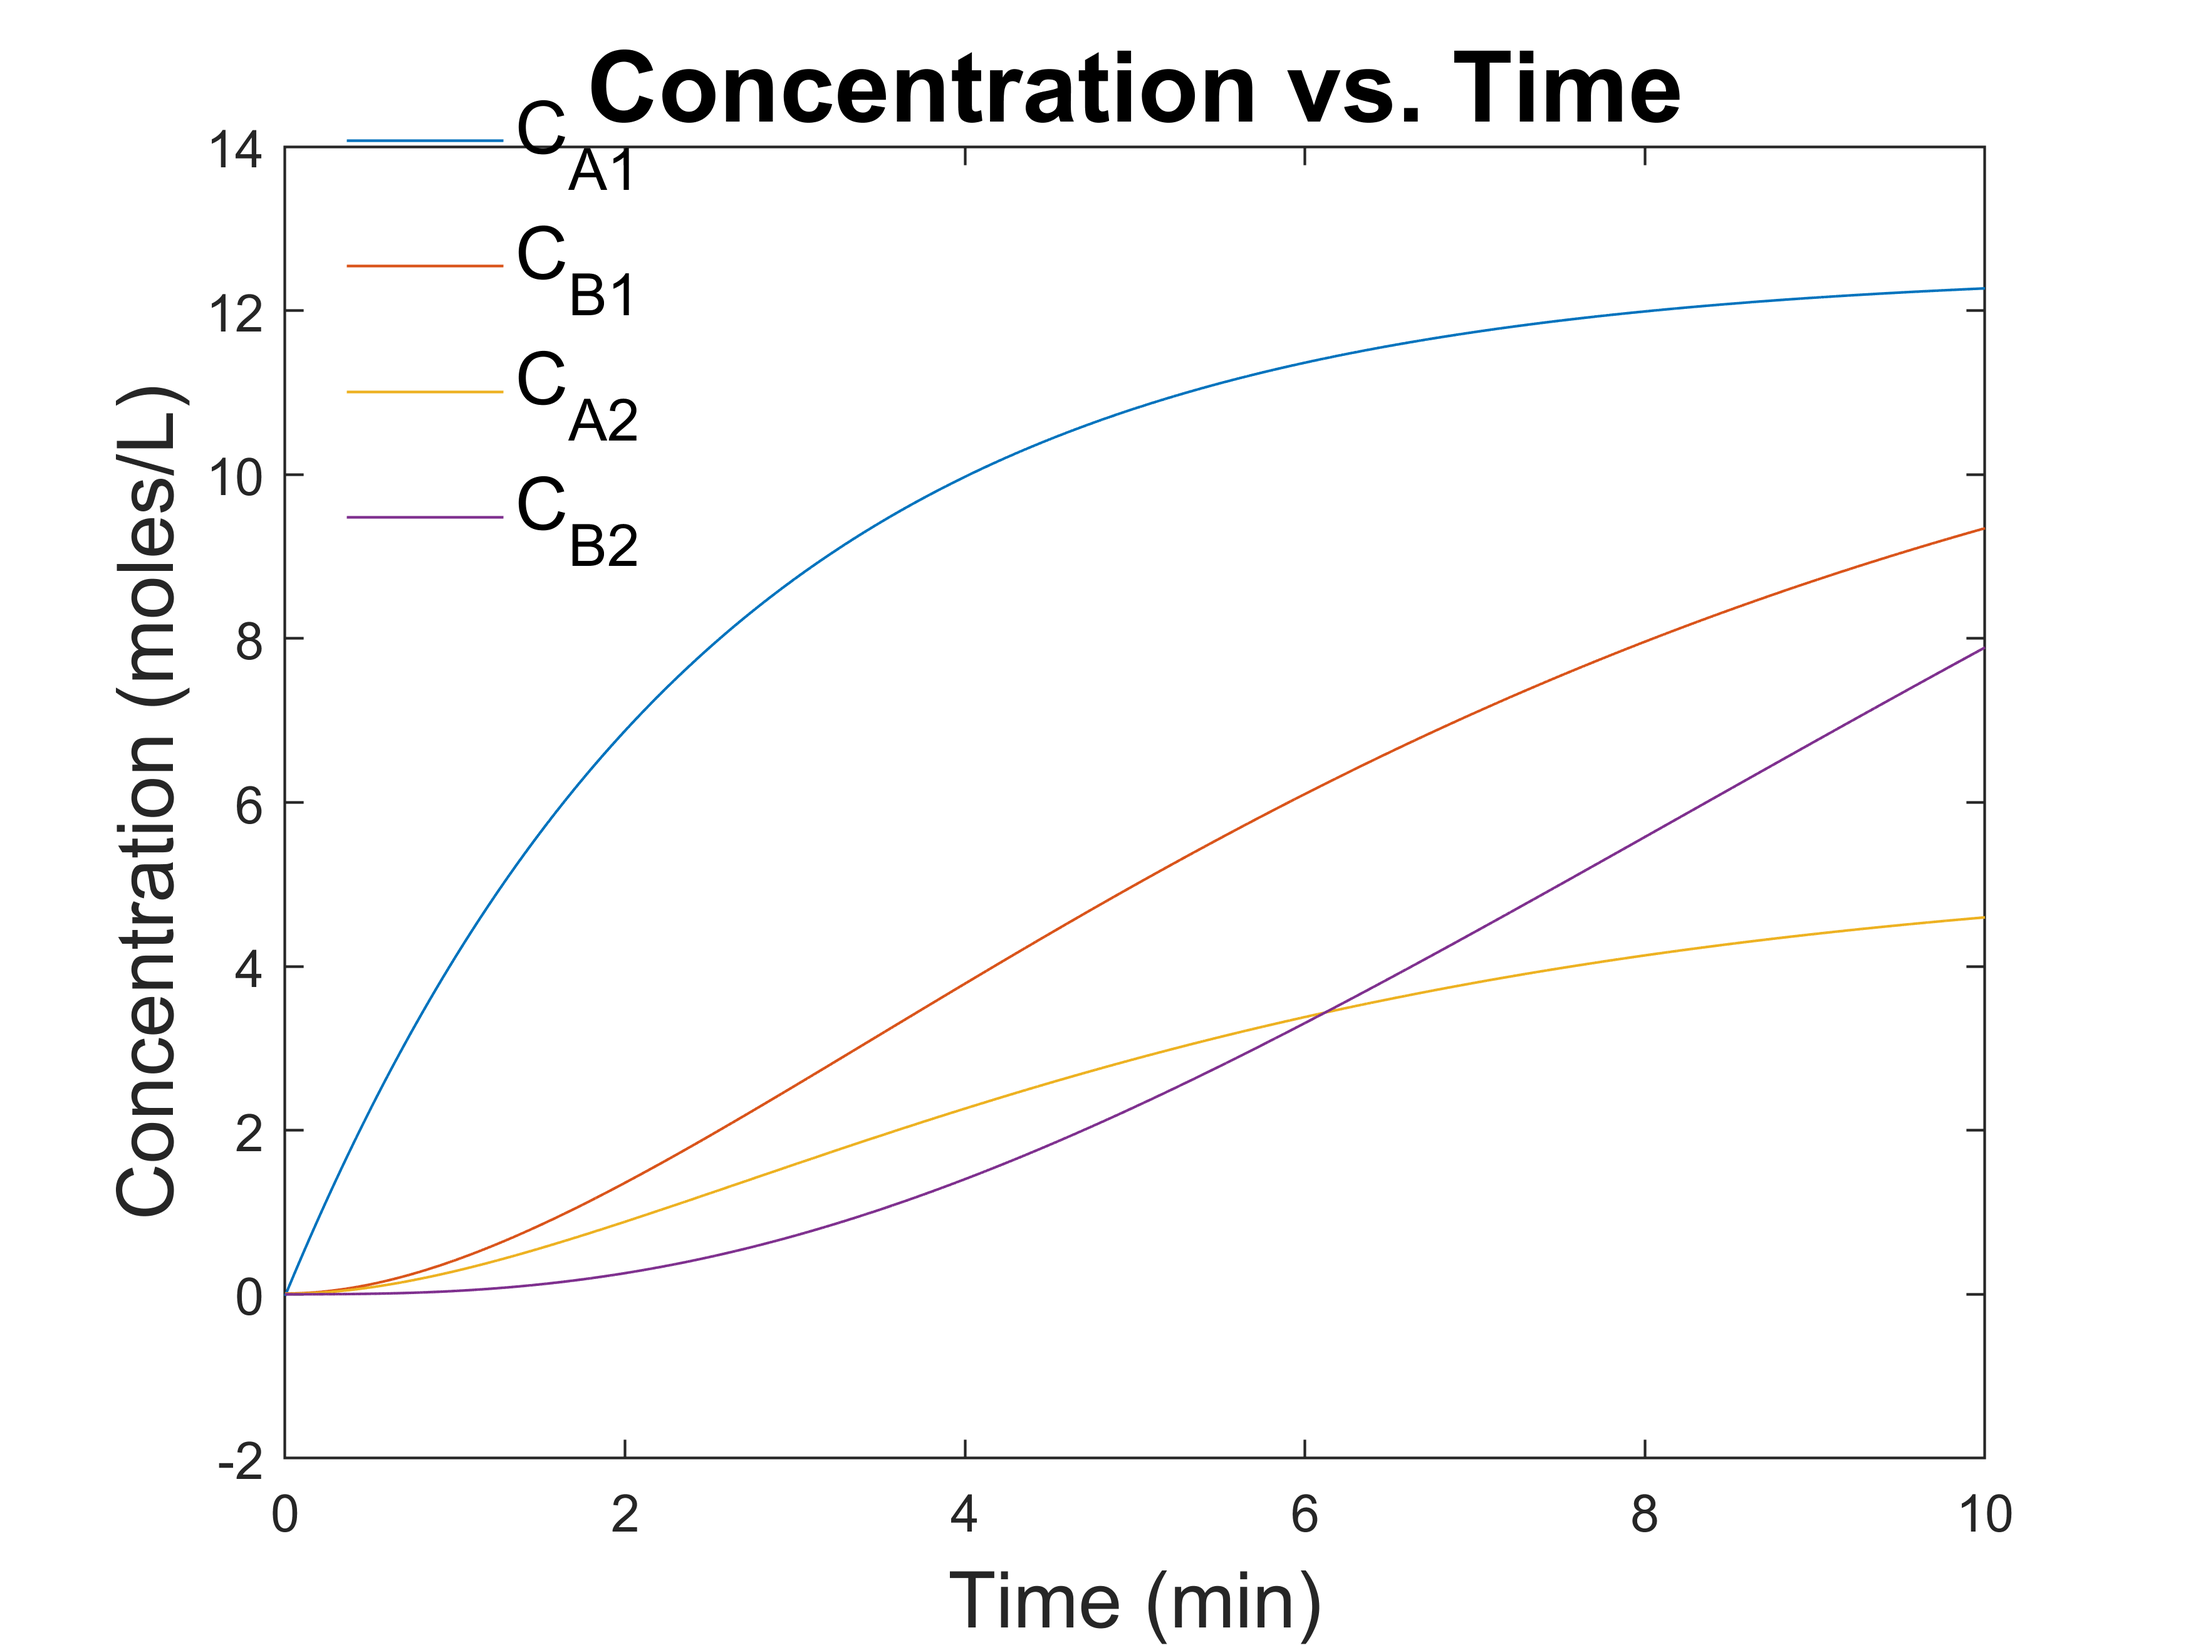
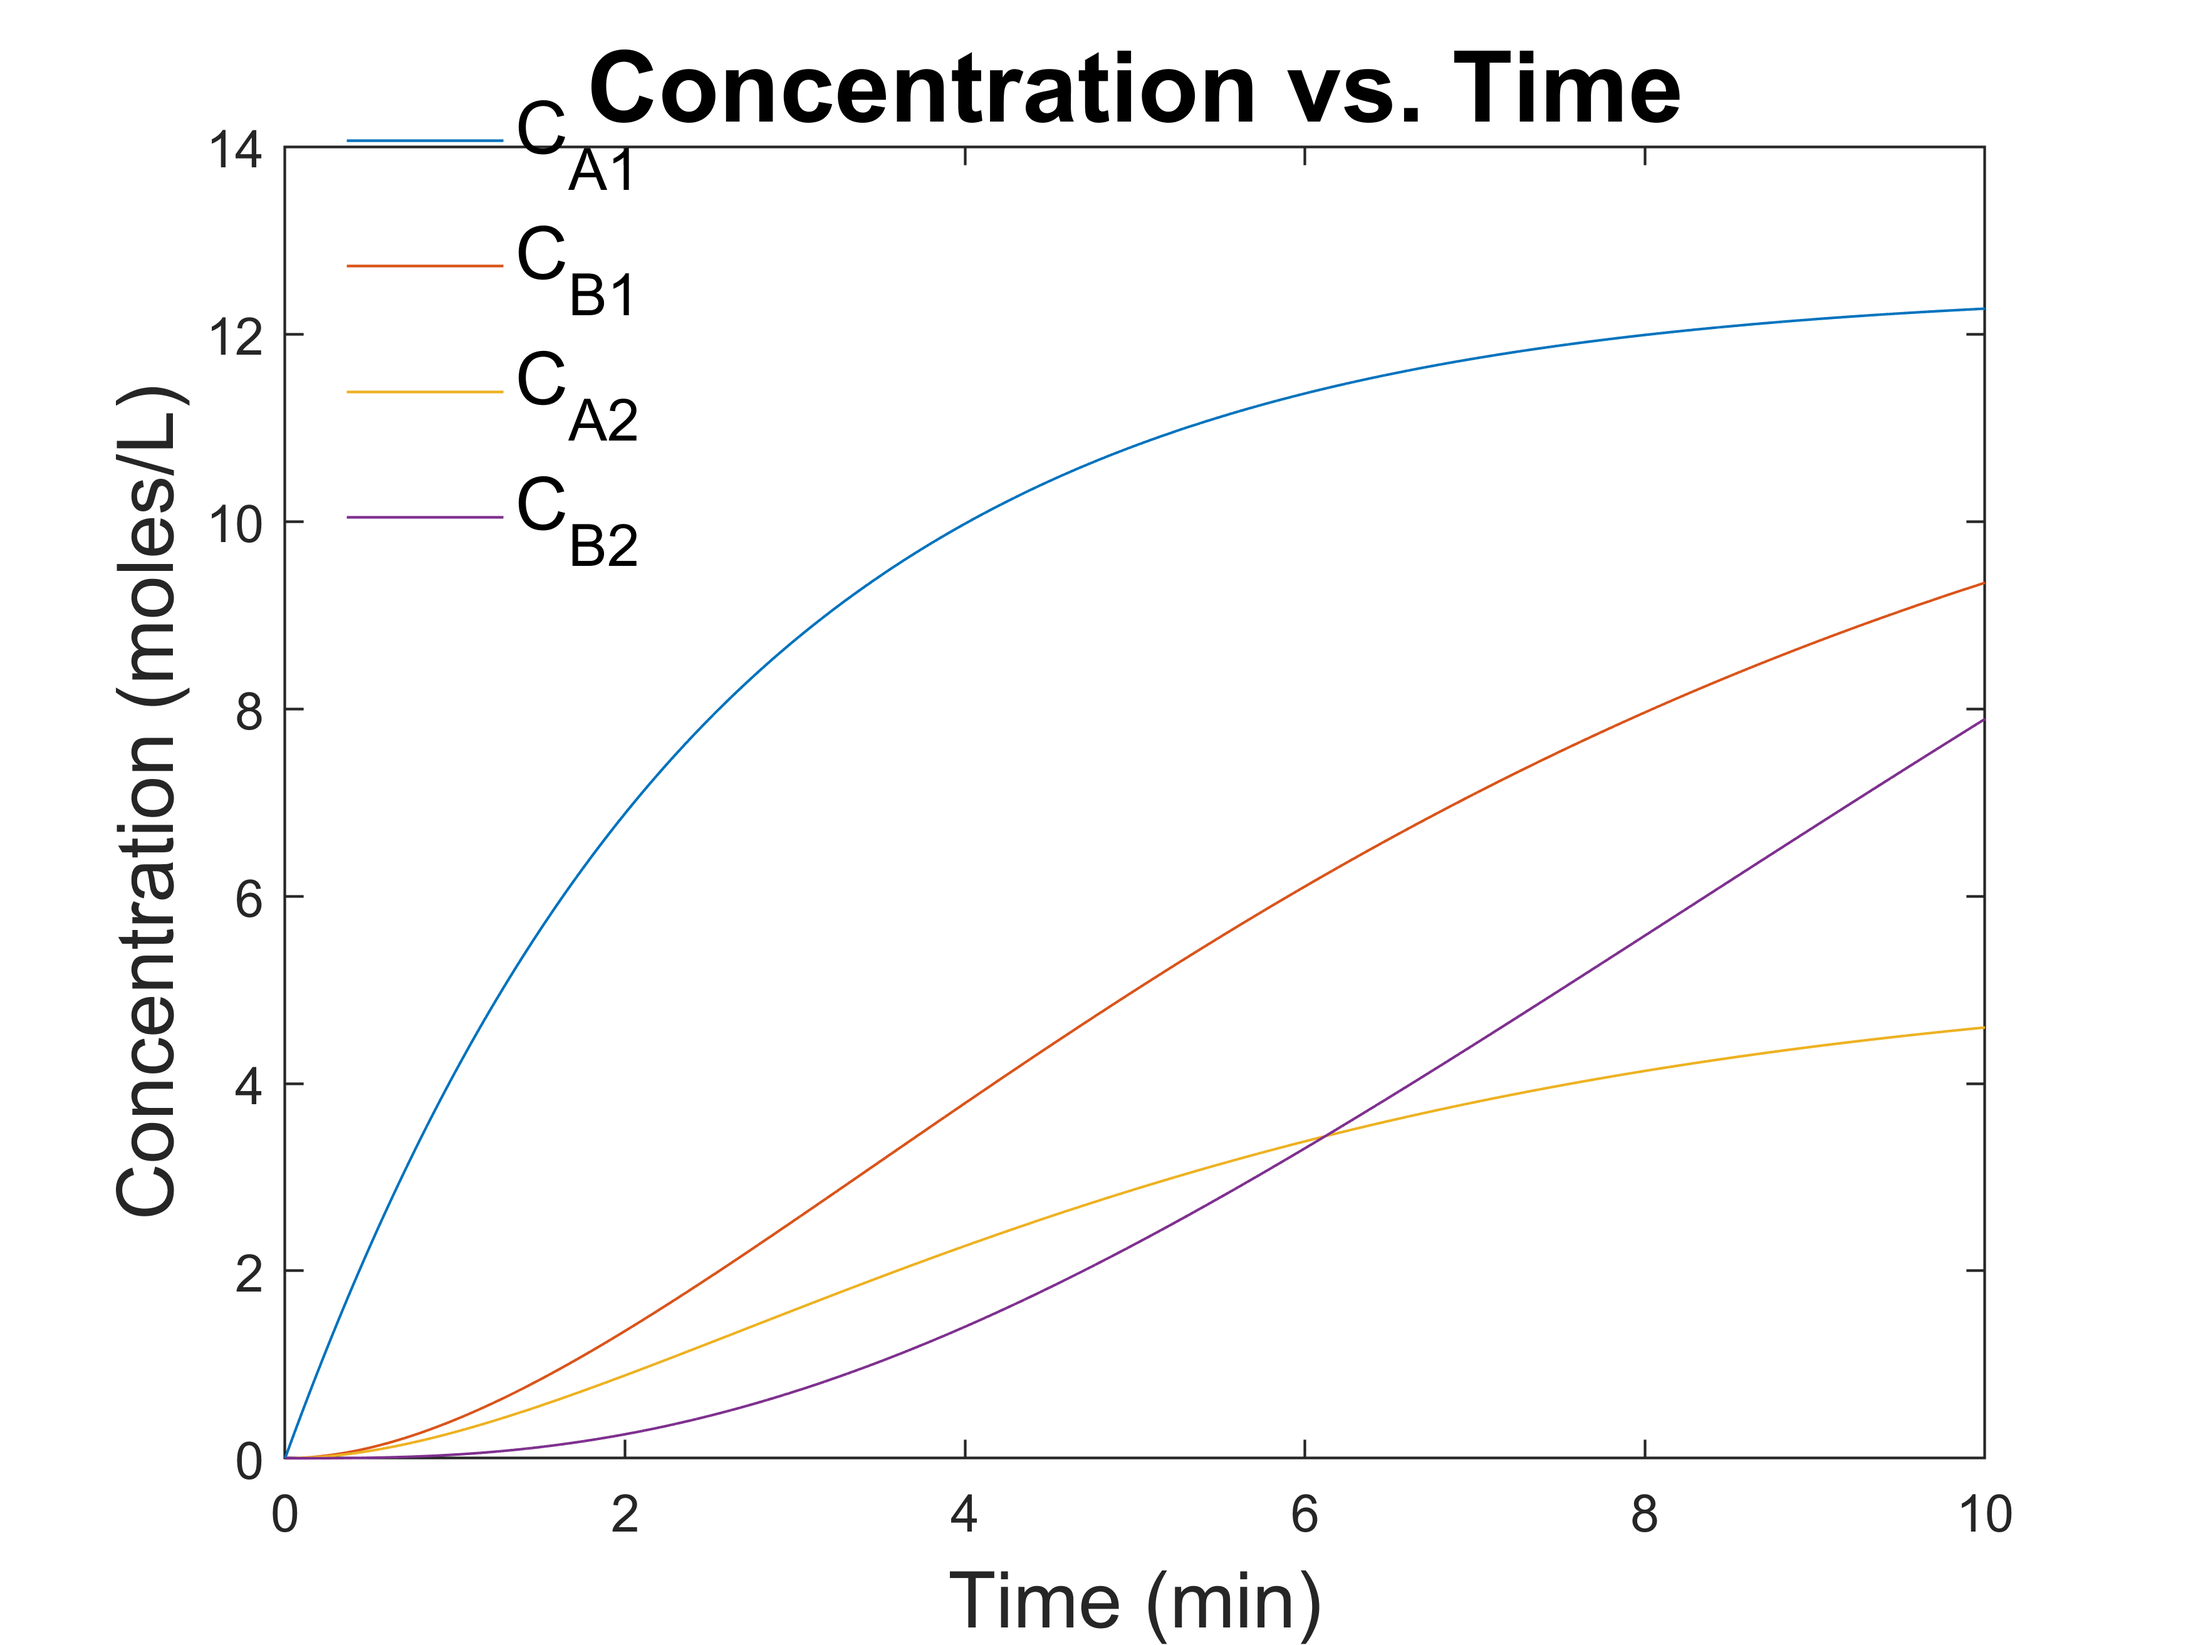
almost done

diff --git a/Assignments/In-Class/main.m b/Assignments/In-Class/main.m
@@ -8,23 +8,26 @@ clc
 k = 0.2; % min^-1
 t1 = 5; % min
 t2 = 7; % min
-
 Ca0 = 25; % mol/L
 
 f = @(C)dc(C, Ca0, k, t1, t2);
 
-%[xs, sol] = butcher([0, 0, 0, 0, 0]', f, 0, 10, 51);
+% if integrating backwards, make h negative
 
-% make x separate
-% for now, if integrating backwards, make h negative
+%ct = butcher(zeros(5, 1), f, 0, 10, 10);
+
+% initialize time vector -- have more control over the bounds of
+% integration
+
+t = linspace(0, 10, 50);
 
 ct = impliciteuler(f, zeros(5, 1), 10001, 1e-3, 1e-12);
-ct = impliciteuler(f, ct(:, end), 10001, -1e-3, 1e-12);
 ct = ct';
+
+t=ct(:,end);
 
 %% Plotting
 fh1=figure(1);
-t=ct(:,end);
 plot(t,ct(:,1),t,ct(:,2),t,ct(:,3),t,ct(:,4));
 ylabel('Concentration (moles/L)','fontsize',15)
 xlabel('Time (min)','fontsize',15)
@@ -35,11 +38,33 @@ set(hlegend,'fontsize',14,'box','off','orientation','vertical', 'position',[0.2 
 print(figure(1),'-dpng','-r600','picture1')
 
 %% Locate concentration
+% Locate the concentration of any species at a given time and report all
+% other species at that time
 
+given_t = 10;
 
+y = incpredict(t, ct(:, 1:end-1), given_t);
+
+fprintf('At time %.2f min, the concentrations of each species are C_A1 = %.5f M, C_B1 = %.5f M, C_A2 = %.5f M, C_B2 = %.5f M.\n', given_t, y);
 
 %% Locate max/min
+% Locate the time and concentration of any species at the point that it has
+% achieved its maximal or minimal value, if one exists
+% It must also report the values of all other species at that time
 
+species = 1;
 
+mm = quicksortd(ct, 1, length(ct), species);
+
+mm(1, :) % Minimum
+mm(end, :) % Maximum
 
 %% Steady State
+% Compute the concentration of each species at steady-state
+
+ss = @(C)dc2(C, Ca0, k, t1, t2);
+cg = ct(end, 1:end-1);
+
+ssc = newtonrm(ss, cg, 1e-12);
+
+fprintf('The steady state concentrations are C_A1 = %.5f M, C_B1 = %.5f M, C_A2 = %.5f M, C_B2 = %.5f M.\n', ssc);

diff --git a/Assignments/In-Class/butcher.m b/Assignments/In-Class/butcher.m
@@ -1,4 +1,4 @@
-function [x, y] = butcher(yi, func, a, b, n)
+function [y] = butcher(yi, func, a, b, n)
 % Algorithm that implements a 5th order RK method
 % p = array of initial x and y guess
 % func = function handle
@@ -10,28 +10,20 @@ function [x, y] = butcher(yi, func, a, b, n)
 
 [m, ~] = size(yi);
 
-y = zeros(m, n); 
+y = zeros(m, n);
 
 dx = (b - a) / (n - 1);
 
-x(1) = yi(end);
 y(:, 1) = yi;
 
-for i = 1:n-1
-    
-    k1 = dx*func(y(:, 1));
-    k2 = dx*func(y(:, i) + k1/4);
-    k3 = dx*func(y(:, i) + k1/8 + k2/8);
-    k4 = dx*func(y(:, i) - k2/2 + k3);
-    k5 = dx*func(y(:, i) + 3*k1/16 + 9*k4/16);
-    k6 = dx*func(y(:, i) + (-3*k1 + 2*k2 + 12*k3 - 12*k4 + 8*k5)/7);
-    ynew = y(:, i) + (7*k1 + 32*k3 + 12*k4 + 32*k5 + 7*k6)/90;
-    
-    y(:, i + 1) = ynew; % Store in array
-        
+for i=1:n-1
+    k1=dx*func(y(:,i));
+    k2=dx*func(y(:,i)+k1/4);
+    k3=dx*func(y(:,i)+(k1+k2)/8);
+    k4=dx*func(y(:,i)-k2/2+k3);
+    k5=dx*func(y(:,i)+(3*k1+9*k4)/16);
+    k6=dx*func(y(:,i)+(-3*k1+2*k2+12*k3-12*k4+8*k5)/7);
+    y(:,i+1)=y(:,i)+(7*k1+32*k3+12*k4+32*k5+7*k6)/90;
 end
-
-y = y(1:end - 1, :);
-x = y(end, :);
 
 end

diff --git a/Assignments/In-Class/incpredict.m b/Assignments/In-Class/incpredict.m
@@ -1,0 +1,38 @@
+% Ngan Jennifer Tram Su [260923530]
+
+function yp = incpredict(x, y, p)
+% Searching algorithm 
+% (1) Incremental search for bounds
+% (2) Linear interpolation
+% x = array of dependent values
+% y = array of independent values
+% p = value of interest
+% yp = predicted y-value
+%% Initialization
+i = 0;
+xleft = 0; yleft = 0; % In case value of interest is < than the first value in array
+xright = x(1); yright = y(1, :);
+%% Beginning of while loop - searching for bounds
+while i + 1 < length(x)
+    
+    if (xleft <= p) && (p <= xright) % Bounds found
+        break
+    end
+       
+    i = i + 1;
+    xleft = x(i); yleft = y(i, :);
+    xright = x(i + 1); yright = y(i + 1, :);
+end
+
+%% Two-point linear interpolation for desired y value
+if abs(xleft - p) < 1e-12 
+    yp = y(i, :);
+elseif abs(xright - p) < 1e-12
+    yp = y(i + 1, :);
+elseif (xleft <= p) && (p <= xright) && (i + 1 < length(x)) % Verifying that bounds were found
+    yp = ((yright - yleft) ./ (xright - xleft)) .* (p - xleft) + yleft;
+else
+    yp = NaN;
+end
+
+end

diff --git a/Assignments/In-Class/quicksortd.m b/Assignments/In-Class/quicksortd.m
@@ -1,0 +1,42 @@
+function v=quicksortd(v, left, right, col)
+%% Recursive quicksort with double indexing that sorts a specific column
+% v = matrix to be sorted
+% left = left index
+% right = right index
+% col = column to sort
+
+if right < left
+    return
+end
+
+i = left;
+j = right;
+s = right - left + 1; % can't use length for subarrays
+pivot = left + ceil(s*rand(1)) - 1; % must subtract one to avoid going out of bounds
+
+piv = v(pivot, col);
+
+while i <= j
+    while v(i, col) < piv % on the left, find the first value that's larger than the pivot
+        i = i + 1;
+    end
+    while v(j, col) > piv % on the right, find the first value that's smaller than the pivot
+        j = j-1;
+    end
+    if i <= j
+        % swap
+        vtmp = v(j, :);
+        v(j, :) = v(i, :);
+        v(i, :) = vtmp;
+        i = i+1;
+        j = j-1;
+    end
+end
+
+% recursion on left side
+v = quicksortd(v, left, j, col);
+
+% recursion on right side
+v = quicksortd(v, i, right, col);
+        
+end

diff --git a/Assignments/In-Class/newtonrm.m b/Assignments/In-Class/newtonrm.m
@@ -1,0 +1,44 @@
+function [xn, i] = newtonrm(fun, xg, tol)
+% Phillip Servio (c) 2013
+% Newton-Raphson method for calculating solution to nonlinear set of
+% equations
+% fun = vector of functions
+% xg = array of initial guesses for each variable of interest
+% h = small step for Jacobian
+% tol = tolerance
+% xn = array of new guess
+% i = number of iterations
+
+%% Initialization
+
+i = 0;
+check = 1;
+n = length(xg);
+dyold = 1e10;
+ov = ones(1, n);
+
+% Forcing xg to be a column vector
+
+xg = xg(:);
+
+% Loop
+
+while tol < check
+    i = i + 1;
+    j = jacob(fun, xg);
+    f = feval(fun, xg);
+    xn = xg - gelim(j, f);
+    
+    dy = ov * abs(feval(fun, xn) - f);
+    
+    if i > 100 || (dy > dyold && i > 1) || ~isreal(xn)
+        warning('Method failed after %1.0f iterations, solution may be incorrect!!', i - 1);
+        break
+    end
+        
+    check = ov * abs(xg - xn) / n;
+    xg = xn;
+    
+end
+
+end

diff --git a/Assignments/In-Class/impliciteuler.m b/Assignments/In-Class/impliciteuler.m
@@ -29,7 +29,7 @@ for i = 1:n-1
         k = k + 1;
         rv = r(yg); % Evaluate residual vector
         jf = jacob(func, yg); % Compute Jacobian of function (jf)
-        jr = eye(m) - jf; % Get Residual Jacobian by identity - jf
+        jr = eye(m) - h*jf; % Get Residual Jacobian by identity - jf
         yn = yg - gelim(jr, rv); % Generate new guess
 
         if k > 100

diff --git a/Assignments/In-Class/dc2.m b/Assignments/In-Class/dc2.m
@@ -1,0 +1,10 @@
+function y=dc2(C, Ca0, k, t1, t2)
+
+y = [
+    (Ca0 - C(1))/t1 - k*C(1);
+    -C(2)/t1 + k*C(1);
+    (C(1) - C(3))/t2 - k*C(3);
+    (C(2) - C(4))/t2 + k*C(3);
+    ];
+
+end

diff --git a/Assignments/In-Class/test.m b/Assignments/In-Class/test.m
@@ -1,0 +1,2 @@
+t = [1 5 6 2; 2 6 8 2; 6 7 3 55; 6 4 6 4];
+quicksortd(t, 1, 4, 4);
